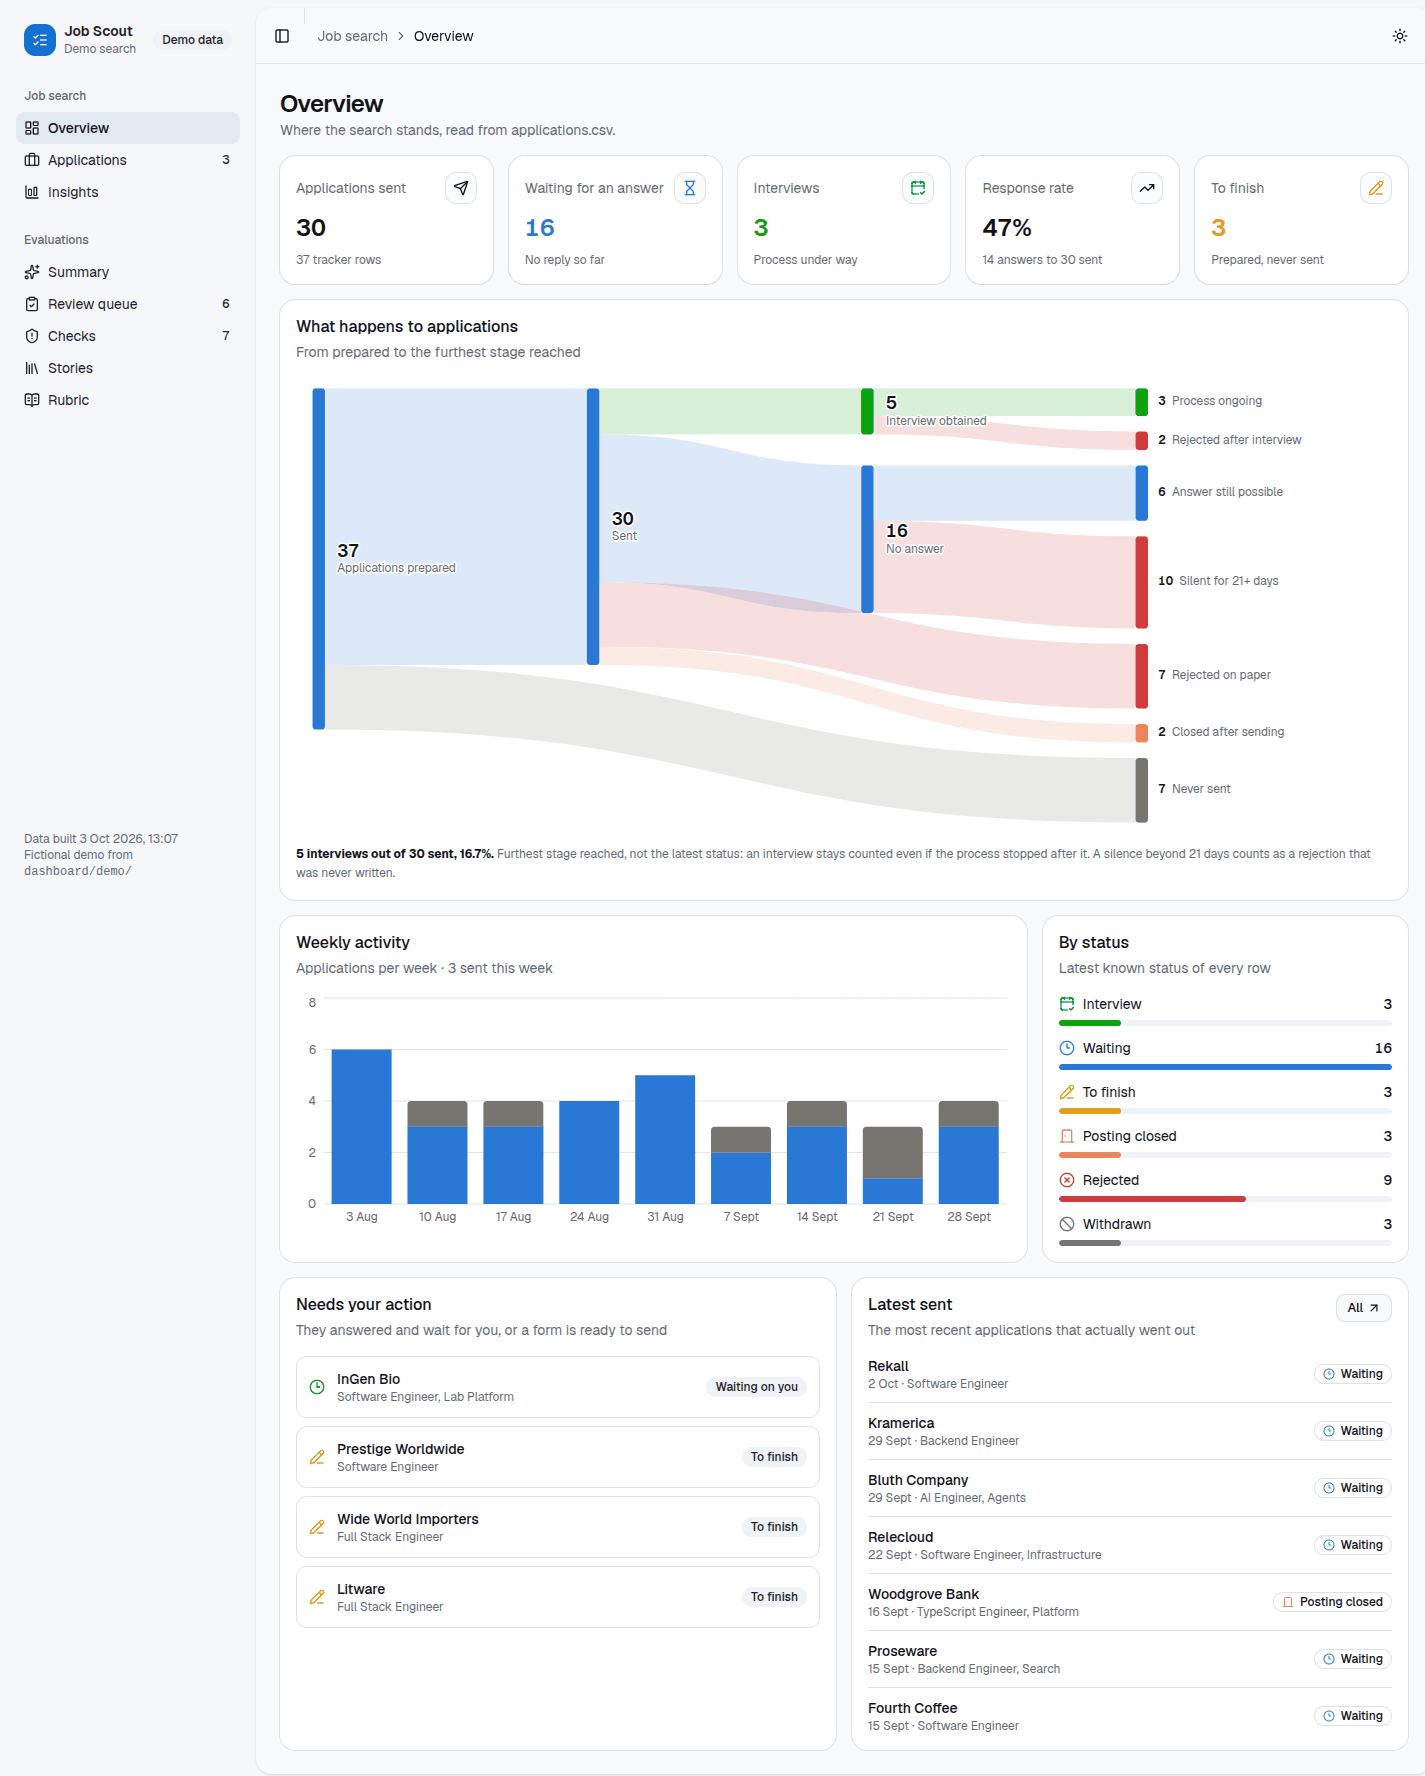
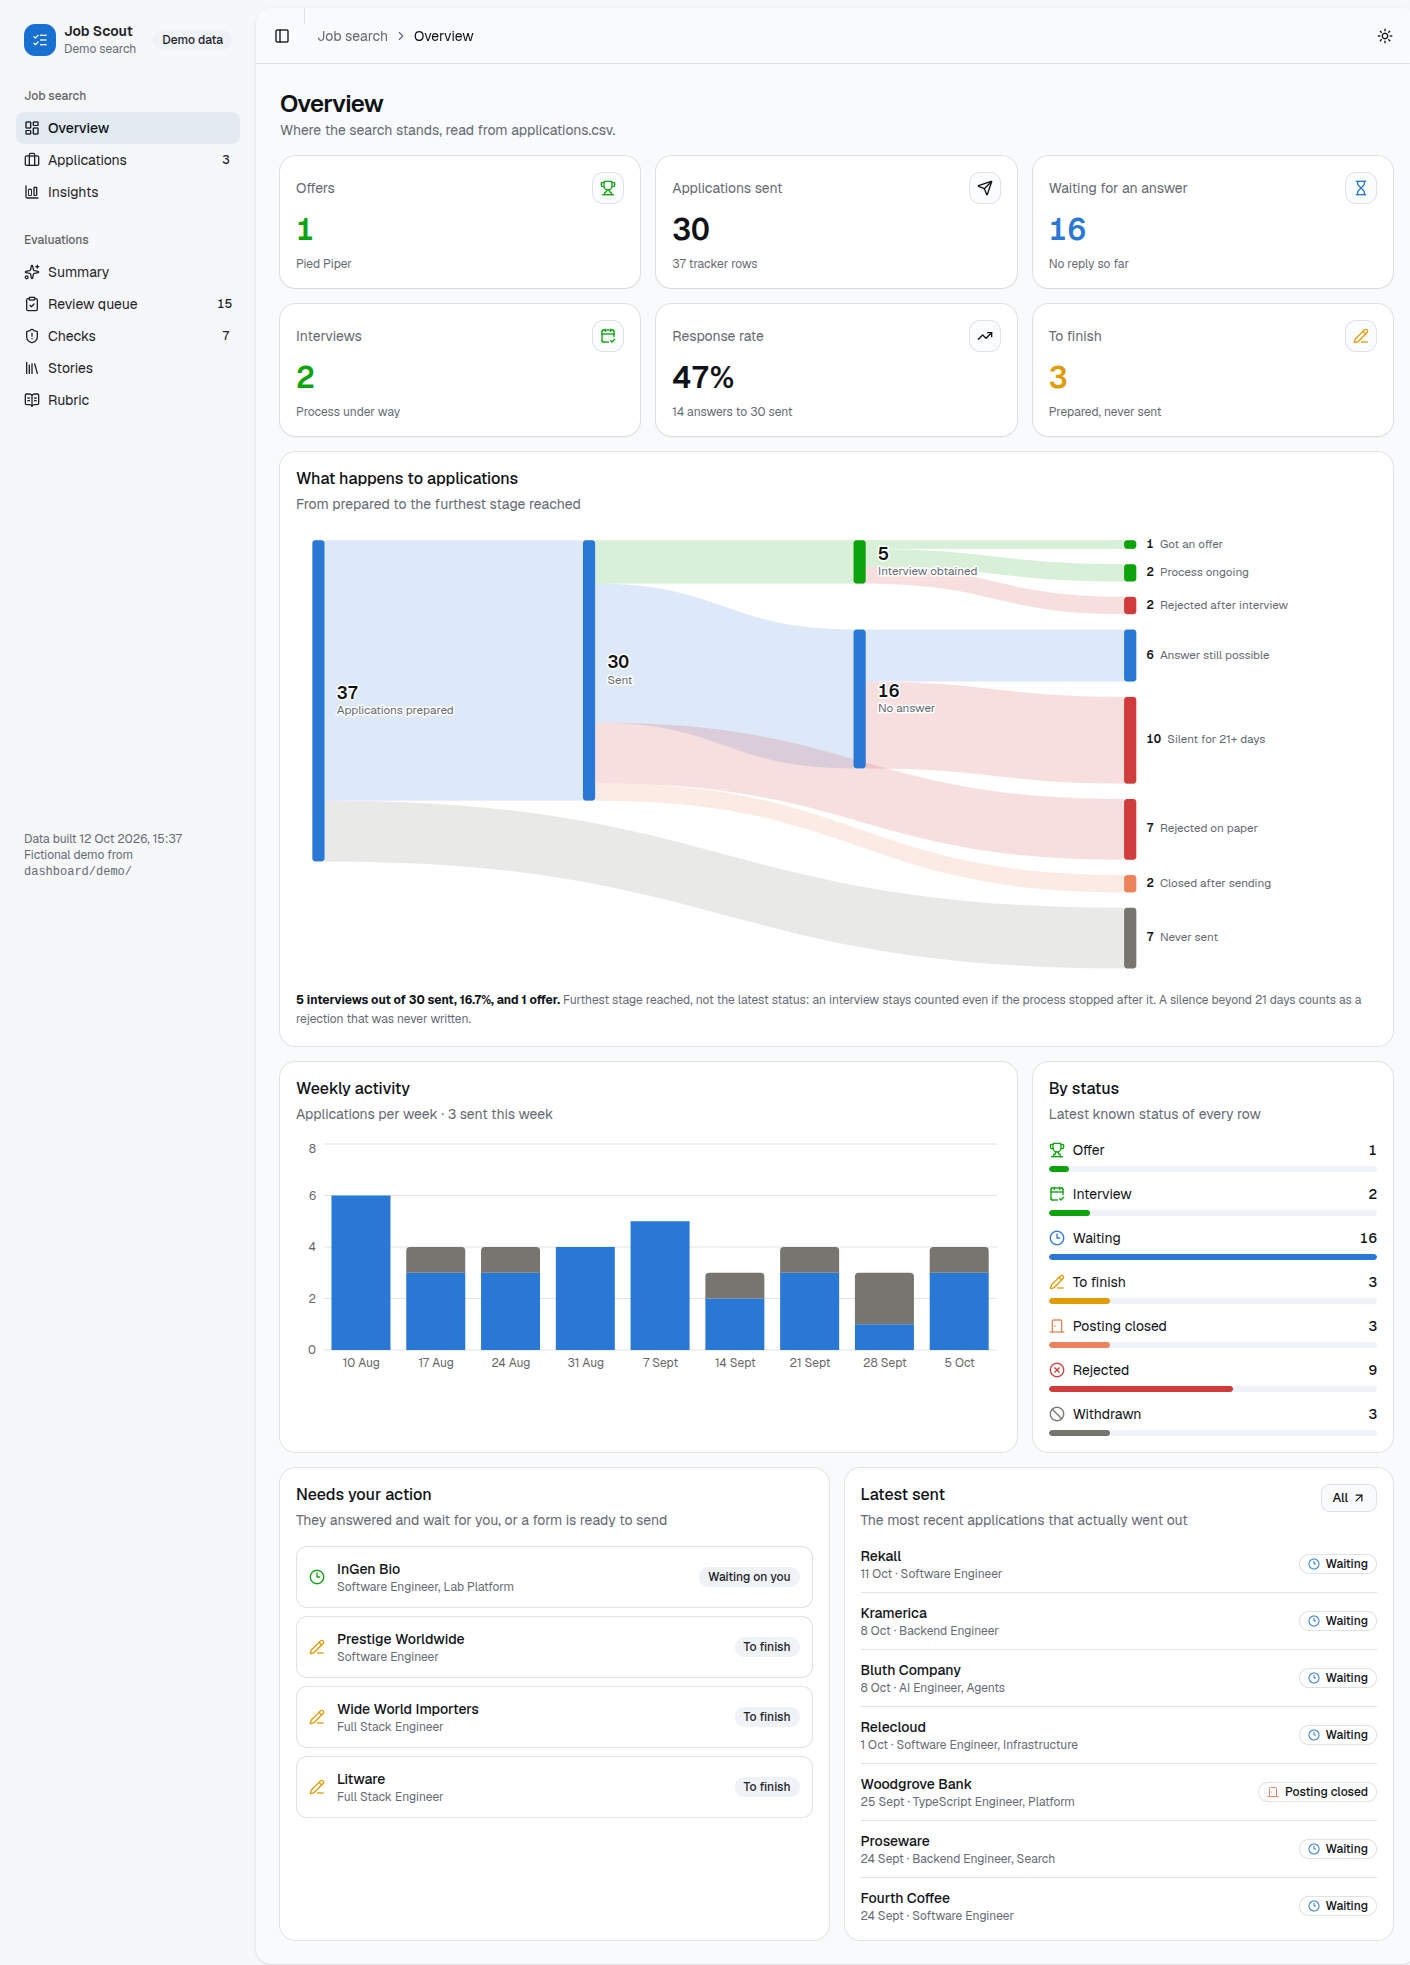
Dashboard: Offer status, Offers tile and a Got an offer branch in the funnel

diff --git a/dashboard/src/lib/metrics.ts b/dashboard/src/lib/metrics.ts
@@ -23,7 +23,7 @@ export type Application = {
   myCourt: boolean;
 };
 
-export type Status = "applied" | "interview" | "rejected" | "closed" | "to_finish" | "withdrawn";
+export type Status = "offer" | "applied" | "interview" | "rejected" | "closed" | "to_finish" | "withdrawn";
 
 export type Config = {
   title: string;
@@ -51,8 +51,14 @@ export const GENERATED_AT = data.generatedAt as string;
  *  `withdrawn` exists because its absence forced a lie: an application
  *  prepared then dropped by choice stayed in `to_finish`, so it showed as
  *  pending work in the Actions panel. It separates three different things:
- *  "not sent yet", "sent then rejected", and "decided not to send". */
+ *  "not sent yet", "sent then rejected", and "decided not to send".
+ *
+ *  `offer` exists for the same reason: without it, a written offer stayed in
+ *  `interview`, shown as a process still under way, and the most important
+ *  outcome of the whole search appeared nowhere. Not to be confused with
+ *  `closed`, which means the posting was taken down. */
 export const STATUSES: Record<Status, { label: string; color: string; icon: string; help: string }> = {
+  offer: { label: "Offer", color: "var(--st-good)", icon: "★", help: "Written offer received" },
   applied: { label: "Waiting", color: "var(--st-pending)", icon: "●", help: "Sent, no answer yet" },
   interview: { label: "Interview", color: "var(--st-good)", icon: "▲", help: "Process engaged" },
   to_finish: { label: "To finish", color: "var(--st-attention)", icon: "◆", help: "Form ready, not sent" },
@@ -61,7 +67,7 @@ export const STATUSES: Record<Status, { label: string; color: string; icon: stri
   withdrawn: { label: "Withdrawn", color: "var(--st-neutral)", icon: "⊘", help: "Dropped by choice, never sent" },
 };
 
-export const STATUS_ORDER: Status[] = ["interview", "applied", "to_finish", "closed", "rejected", "withdrawn"];
+export const STATUS_ORDER: Status[] = ["offer", "interview", "applied", "to_finish", "closed", "rejected", "withdrawn"];
 
 /** Returns a status descriptor, with a fallback for an unknown status.
  *
@@ -126,7 +132,7 @@ export function countByStatus(c: Application[]) {
  *  build time, read by both. */
 export function responseRate(c: Application[]) {
   const sent = c.filter((x) => x.sent);
-  const answered = sent.filter((x) => x.status === "rejected" || x.status === "interview" || x.status === "closed");
+  const answered = sent.filter((x) => x.status === "rejected" || x.status === "interview" || x.status === "offer" || x.status === "closed");
   return {
     sent: sent.length,
     answered: answered.length,
@@ -152,7 +158,7 @@ export function perSourceFamily(c: Application[]) {
   for (const x of c) {
     const e = m.get(x.sourceFamily) ?? { n: 0, interviews: 0 };
     e.n++;
-    if (x.interviewObtained || x.status === "interview") e.interviews++;
+    if (x.interviewObtained || x.status === "interview" || x.status === "offer") e.interviews++;
     m.set(x.sourceFamily, e);
   }
   return [...m.entries()].map(([name, v]) => ({ name, ...v })).sort((a, b) => b.n - a.n);
@@ -213,7 +219,7 @@ export function funnel(c: Application[]): FunnelNode {
 
   type Outcome = "interview" | "no_answer" | "closed" | "rejected_on_paper";
   const outcome = (x: Application): Outcome =>
-    x.interviewObtained || x.status === "interview"
+    x.interviewObtained || x.status === "interview" || x.status === "offer"
       ? "interview"
       : x.status === "applied"
         ? "no_answer"
@@ -256,6 +262,13 @@ export function funnel(c: Application[]): FunnelNode {
             n: interviews.length,
             children: [
               leaf(
+                "offer",
+                "Got an offer",
+                "A written offer received",
+                "var(--st-good)",
+                interviews.filter((x) => x.status === "offer"),
+              ),
+              leaf(
                 "ongoing",
                 "Process ongoing",
                 "Interview ahead or next stage engaged",
@@ -267,7 +280,7 @@ export function funnel(c: Application[]): FunnelNode {
                 "Rejected after interview",
                 "The process stopped after at least one conversation",
                 "var(--st-critical)",
-                interviews.filter((x) => x.status !== "interview"),
+                interviews.filter((x) => x.status !== "interview" && x.status !== "offer"),
               ),
             ],
           },

diff --git a/dashboard/src/pages/overview.tsx b/dashboard/src/pages/overview.tsx
@@ -1,5 +1,5 @@
 import { Bar, BarChart, CartesianGrid, XAxis, YAxis } from "recharts";
-import { ArrowUpRight, BellRing, CalendarCheck2, Clock3, Hourglass, PencilLine, Send, TrendingUp } from "lucide-react";
+import { ArrowUpRight, BellRing, CalendarCheck2, Clock3, Hourglass, PencilLine, Send, TrendingUp, Trophy } from "lucide-react";
 import { Card, CardAction, CardContent, CardDescription, CardHeader, CardTitle } from "@/components/ui/card";
 import { Badge } from "@/components/ui/badge";
 import { Button } from "@/components/ui/button";
@@ -51,6 +51,7 @@ export function OverviewPage() {
   const weeks = perWeek();
   const thisWeek = weeks.at(-1);
   const maxCount = Math.max(...counts.map((c) => c.n), 1);
+  const offers = APPLICATIONS.filter((c) => c.status === "offer");
 
   // "Waiting on you" is not a chaser: the company answered and waits for you.
   // Chasers only show when the profile sets RULES.followUps to a number of
@@ -71,7 +72,14 @@ export function OverviewPage() {
         <p className="text-muted-foreground text-sm">Where the search stands, read from applications.csv.</p>
       </div>
 
-      <div className="grid grid-cols-2 gap-3 md:gap-4 lg:grid-cols-5">
+      <div className="grid grid-cols-2 gap-3 md:gap-4 lg:grid-cols-3 2xl:grid-cols-6">
+        <Kpi
+          label="Offers"
+          value={offers.length}
+          hint={offers.length ? offers.map((c) => c.company).join(", ") : "None yet"}
+          icon={Trophy}
+          tone={offers.length ? "var(--st-good)" : undefined}
+        />
         <Kpi label="Applications sent" value={rep.sent} hint={`${APPLICATIONS.length} tracker rows`} icon={Send} />
         <Kpi label="Waiting for an answer" value={n("applied")} hint="No reply so far" icon={Hourglass} tone="var(--st-pending)" />
         <Kpi label="Interviews" value={n("interview")} hint={n("interview") ? "Process under way" : "None right now"} icon={CalendarCheck2} tone={n("interview") ? "var(--st-good)" : undefined} />
@@ -82,7 +90,6 @@ export function OverviewPage() {
           hint={n("to_finish") ? "Prepared, never sent" : "Nothing pending"}
           icon={PencilLine}
           tone={n("to_finish") ? "var(--st-attention)" : undefined}
-          className="col-span-2 lg:col-span-1"
         />
       </div>
 

diff --git a/dashboard/src/components/funnel.tsx b/dashboard/src/components/funnel.tsx
@@ -23,6 +23,7 @@ export function Funnel() {
   const sent = root.children.find((e) => e.key === "sent")!;
   const interviews = sent.children.find((e) => e.key === "interview")!;
   const rate = sent.n ? (interviews.n / sent.n) * 100 : 0;
+  const offers = interviews.children.find((e) => e.key === "offer")?.n ?? 0;
 
   return (
     <div>
@@ -33,7 +34,7 @@ export function Funnel() {
           viewBox={`0 0 ${WIDTH} ${HEIGHT}`}
           className="h-auto w-full min-w-[880px]"
           role="img"
-          aria-label={`Application funnel: ${root.n} prepared, ${sent.n} sent, ${interviews.n} interviews obtained`}
+          aria-label={`Application funnel: ${root.n} prepared, ${sent.n} sent, ${interviews.n} interviews obtained, ${offers} offers`}
         >
           {ribbons.map((r) => (
             <path key={r.key} d={r.d} fill={r.color} className="[fill-opacity:0.16] transition-[fill-opacity] duration-150 hover:[fill-opacity:0.38]">
@@ -65,7 +66,7 @@ export function Funnel() {
       </div>
       <p className="text-muted-foreground mt-3 text-xs leading-relaxed text-pretty">
         <strong className="text-foreground">
-          {interviews.n} interview{interviews.n === 1 ? "" : "s"} out of {sent.n} sent, {rate.toFixed(1)}%.
+          {interviews.n} interview{interviews.n === 1 ? "" : "s"} out of {sent.n} sent, {rate.toFixed(1)}%{offers ? `, and ${offers} offer${offers > 1 ? "s" : ""}` : ""}.
         </strong>{" "}
         Furthest stage reached, not the latest status: an interview stays counted even if the process stopped after it. A silence
         beyond {SILENCE_DAYS} days counts as a rejection that was never written.

diff --git a/dashboard/src/components/status.tsx b/dashboard/src/components/status.tsx
@@ -1,4 +1,4 @@
-import { Ban, CalendarCheck2, CircleHelp, Clock3, DoorClosed, PencilLine, XCircle, type LucideIcon } from "lucide-react";
+import { Ban, CalendarCheck2, CircleHelp, Clock3, DoorClosed, PencilLine, Trophy, XCircle, type LucideIcon } from "lucide-react";
 import { Badge } from "@/components/ui/badge";
 import { statusOf, type Status } from "@/lib/metrics";
 import { cn } from "@/lib/utils";
@@ -6,6 +6,7 @@ import { cn } from "@/lib/utils";
 /** Every status has an icon AND a label: colour never carries meaning alone
  *  (the status hues fail the dataviz validator as a categorical palette). */
 export const STATUS_ICON: Record<Status, LucideIcon> = {
+  offer: Trophy,
   applied: Clock3,
   interview: CalendarCheck2,
   to_finish: PencilLine,

diff --git a/dashboard/src/pages/eval-overview.tsx b/dashboard/src/pages/eval-overview.tsx
@@ -38,7 +38,7 @@ export function EvalOverviewPage() {
     .filter((c) => c.total);
 
   // Score against outcome: weak signal (small n, unexplained rejections), shown as a hint, never as a grade.
-  const outcomes = ["interview", "rejected", "applied"].map((st) => {
+  const outcomes = ["offer", "interview", "rejected", "applied"].map((st) => {
     const rs = RECORDS.filter((r) => applicationOf(r)?.status === st);
     return { st, n: rs.length, avg: mean(rs.map((r) => latest.get(r.id)).filter(Boolean).flatMap((s) => Object.values(s!.axes))) };
   });

diff --git a/dashboard/src/pages/insights.tsx b/dashboard/src/pages/insights.tsx
@@ -17,7 +17,7 @@ function bySource() {
     const e = m.get(c.sourceFamily) ?? { n: 0, interviews: 0, sent: 0 };
     e.n++;
     if (c.sent) e.sent++;
-    if (c.interviewObtained || c.status === "interview") e.interviews++;
+    if (c.interviewObtained || c.status === "interview" || c.status === "offer") e.interviews++;
     m.set(c.sourceFamily, e);
   }
   return [...m.entries()].map(([source, v]) => ({ source, ...v })).sort((a, b) => b.n - a.n);

diff --git a/docs/DASHBOARD.md b/docs/DASHBOARD.md
@@ -31,8 +31,8 @@ The sidebar holds both halves. On a laptop it collapses to icons (the button lef
 
 **Answers: where does the search stand today, and is anything waiting for me?**
 
-- **The five tiles**: applications really sent (rows marked `NEVER SENT`, `to_finish` and `withdrawn` excluded), how many still wait for an answer, interviews under way, the response rate (any answer, rejection included, over what was sent), and forms prepared but never sent.
-- **What happens to applications** is the funnel, the one block that shows the **conversion rate to interview**. It reads the furthest stage reached, not the last status: an application rejected after an interview stays counted as an interview, because its note says `INTERVIEW OBTAINED`. A silence of more than 21 days moves to "Silent for 21+ days", a rejection nobody wrote. Hover a ribbon or a bar for its definition.
+- **The six tiles**: offers received (with the company names), applications really sent (rows marked `NEVER SENT`, `to_finish` and `withdrawn` excluded), how many still wait for an answer, interviews under way, the response rate (any answer, rejection included, over what was sent), and forms prepared but never sent.
+- **What happens to applications** is the funnel, the one block that shows the **conversion rate to interview**. An offer shows as "Got an offer", the first branch after the interview. It reads the furthest stage reached, not the last status: an application rejected after an interview stays counted as an interview, because its note says `INTERVIEW OBTAINED`. A silence of more than 21 days moves to "Silent for 21+ days", a rejection nobody wrote. Hover a ribbon or a bar for its definition.
 - **Weekly activity**: one bar per week, blue for what went out, grey for rows that never did. A grey week is a week of preparation that produced nothing; a gap is a week without a search.
 - **By status**: every row by its latest status. Each status has an icon and a label, colour only reinforces.
 - **Needs your action** is the list to read first. "Waiting on you" means a company answered and waits for you (the note says `WAITING FOR MY REPLY`): that is not a chaser, answer it. "To finish" is a form ready but not sent. A "Chaser due" line exists only if `RULES.followUps` in your profile is a number of days; with the default policy (`'never'`) it never shows.

diff --git a/applications/README.md b/applications/README.md
@@ -32,6 +32,7 @@ date_applied,company,role,source,link,remote,salary_shown,cv_version,status,note
 | `applied` | the application went out | **only when a mail proves it** (nominative acknowledgment), or LinkedIn's own notification for Easy Apply |
 | `to_finish` | not sent, or not provably sent | a « complete / verify your email » mail, a form left for a human click, a send whose outcome is unknown |
 | `interview` | a process is engaged | a slot is proposed or confirmed (« thanks for applying » is not enough) |
+| `offer` | a written offer arrived | the offer is in writing (letter, ATS offer page, mail). Keep `INTERVIEW OBTAINED` in the note |
 | `rejected` | end of process | an explicit rejection (the verdict is in the body, not the subject) |
 | `closed` | the posting closed before or after applying | the ATS says so |
 | `withdrawn` | the candidate withdrew | decided by the candidate |

diff --git a/CLAUDE.md b/CLAUDE.md
@@ -33,6 +33,7 @@
 | nominative acknowledgment of receipt | the application **went out** | `applied` |
 | explicit rejection | end of process | `rejected` |
 | slot proposed or confirmed | interview | `interview` |
+| written offer | offer | `offer` |
 | no mail at all | **nothing** | unchanged |
 
 - An application is `applied` **only if a mail proves it**. Review 24 to 48 h after each batch.
